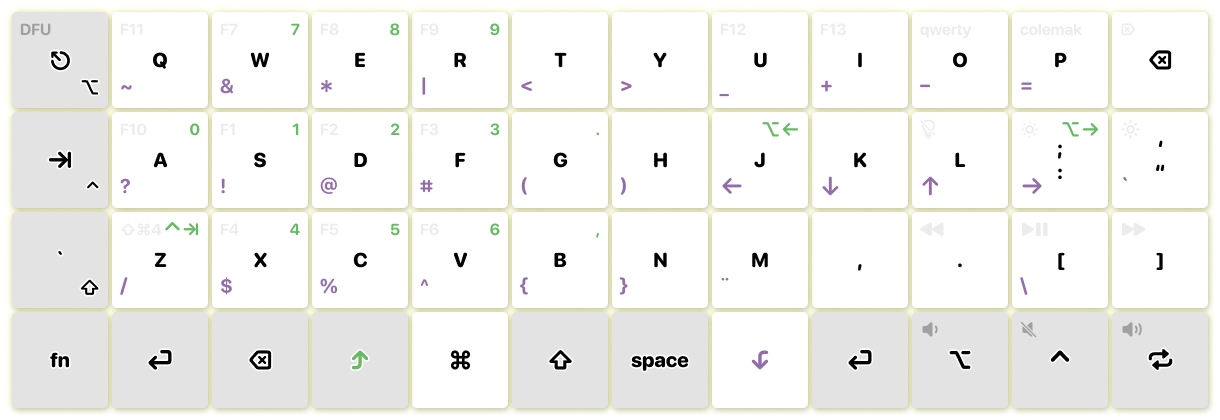
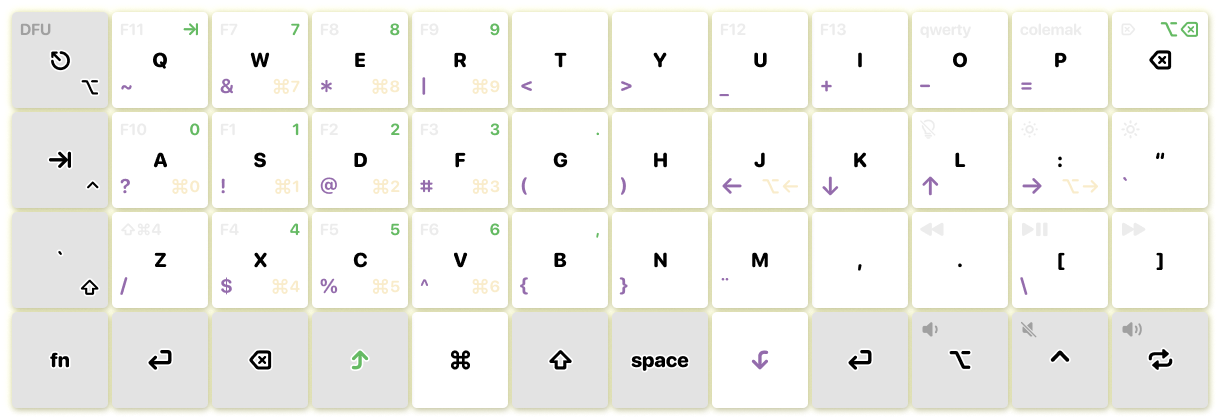
add adjust layer

diff --git a/planck/keymap.c b/planck/keymap.c
@@ -8,6 +8,7 @@ enum planck_layers {
   _COLEMAK_DH,
   _LOWER,
   _RAISE,
+  _ADJUST,
   _FN
 };
 
@@ -21,9 +22,11 @@ enum planck_layers {
 #define FN MO(_FN)
 #define LOWER MO(_LOWER)
 #define RAISE MO(_RAISE)
+#define ADJUST MO(_ADJUST)
 #define LOWER_T TG(_LOWER)
 #define RAISE_T TG(_RAISE)
 #define ENT_RSE LT(_RAISE, KC_ENT)
+#define CMD_RSE LM(_RAISE, MOD_RGUI)
 
 #define T_QWERT DF(_QWERTY)
 #define T_COLEM DF(_COLEMAK_DH)
@@ -85,9 +88,9 @@ const uint16_t PROGMEM keymaps[][MATRIX_ROWS][MATRIX_COLS] = {
  * |-------+-------+-------+-------+-------+-------+-------+-------+-------+-------+-------+-------|
  * | tab/⌃ |   A   |   R   |   S   |   T   |   G   |   M   |   N   |   E   |   I   |   O   |   "   |
  * |-------+-------+-------+-------+-------+-------+-------+-------+-------+-------+-------+-------|
- * |   `/⇧ |   Z   |   X   |   C   |   D   |   V   |   K   |   H   |   ,   |   .   |   ↲   |  lng  |
+ * |   `/⇧ |   Z   |   X   |   C   |   D   |   V   |   K   |   H   |   ,   |   .   |   [   |   ]   |
  * |-------+-------+-------+-------+-------+-------+-------+-------+-------+-------+-------+-------|
- * |  FN   |   ↲   |   ⌫   |   ↗   |   ⌘   |   ⇧   | space |   ↙   |   ↲   |   ⌥   |   ⌃   | lng   |
+ * |  FN   |   ↲   |   ⌫   |   ↗   |   ⌘   |   ⇧   | space |   ↙   |   ↲   |   ⌥   |   ⌃   |  lng  |
  * `-----------------------------------------------------------------------------------------------'
  */
 [_COLEMAK_DH] = LAYOUT_planck_grid(
@@ -112,25 +115,43 @@ const uint16_t PROGMEM keymaps[][MATRIX_ROWS][MATRIX_COLS] = {
     _______, KC_TILD, KC_AMPR, KC_ASTR, KC_PIPE, KC_LT,   KC_GT,   KC_UNDS, KC_PLUS, KC_MINS, KC_EQL,  _______,
     _______, KC_QUES, KC_EXLM, KC_AT,   KC_HASH, KC_LPRN, KC_RPRN, KC_LEFT, KC_DOWN, KC_UP,   KC_RGHT, KC_GRV,
     _______, KC_SLSH, KC_DLR,  KC_PERC, KC_CIRC, KC_LCBR, KC_RCBR, UMLAUT,  KC_LPRN, KC_RPRN, KC_BSLS, XXXXXXX,
-    XXXXXXX, _______, _______, _______, _______, _______, _______, XXXXXXX, _______, _______, _______, _______
+    XXXXXXX, _______, _______, ADJUST,  _______, _______, _______, XXXXXXX, _______, _______, _______, _______
 ),
 
 /* Raise
  * ,-----------------------------------------------------------------------------------------------.
- * | TRNS  |       |   7   |   8   |   9   |       |       |       |       |       |       |       |
+ * | TRNS  |  tab  |   7   |   8   |   9   |       |       |       |       |       |       |       |
  * |-------+-------+-------+-------+-------+-------+-------+-------+-------+-------+-------+-------|
- * | TRNS  |   0   |   1   |   2   |   3   |   .   |       |  ⌥ ←  |       |       |  ⌥ →  |       |
+ * | TRNS  |   0   |   1   |   2   |   3   |   .   |       |       |       |       |       |       |
  * |-------+-------+-------+-------+-------+-------+-------+-------+-------+-------+-------+-------|
- * | TRNS  | ⌃ tab |   4   |   5   |   6   |   ,   |       |       |       |       |       |       |
+ * | TRNS  |       |   4   |   5   |   6   |   ,   |       |       |       |       |       |       |
  * |-------+-------+-------+-------+-------+-------+-------+-------+-------+-------+-------+-------|
  * |       | TRNS  | TRNS  |       | TRNS  | TRNS  | TRNS  | TRNS  | TRNS  | TRNS  | TRNS  | TRNS  |
  * `-----------------------------------------------------------------------------------------------'
   */
 [_RAISE] = LAYOUT_planck_grid(
-    _______, XXXXXXX, KC_7,    KC_8,    KC_9,    XXXXXXX, XXXXXXX, XXXXXXX, XXXXXXX, XXXXXXX, XXXXXXX, _______,
-    _______, KC_0,    KC_1,    KC_2,    KC_3,    KC_DOT,  XXXXXXX, OP_LEFT, XXXXXXX, XXXXXXX, OP_RGHT, XXXXXXX,
+    _______, KC_TAB,  KC_7,    KC_8,    KC_9,    XXXXXXX, XXXXXXX, XXXXXXX, XXXXXXX, XXXXXXX, XXXXXXX, XXXXXXX,
+    _______, KC_0,    KC_1,    KC_2,    KC_3,    KC_DOT,  XXXXXXX, XXXXXXX, XXXXXXX, XXXXXXX, XXXXXXX, XXXXXXX,
     _______, LCTLTAB, KC_4,    KC_5,    KC_6,    KC_COMM, XXXXXXX, XXXXXXX, XXXXXXX, XXXXXXX, XXXXXXX, XXXXXXX,
-    XXXXXXX, _______, _______, XXXXXXX, _______, _______, _______, _______, _______, _______, _______, _______
+    XXXXXXX, _______, _______, XXXXXXX, _______, _______, _______, ADJUST,  _______, _______, _______, _______
+),
+
+/* ADJUST
+ * ,-----------------------------------------------------------------------------------------------.
+ * | TRNS  |       |  ⌘ 7  |  ⌘ 8  |  ⌘ 9  |       |       |       |       |       |       |  ⌥ ⌫  |
+ * |-------+-------+-------+-------+-------+-------+-------+-------+-------+-------+-------+-------|
+ * | TRNS  |  ⌘ 0  |  ⌘ 1  |  ⌘ 2  |  ⌘ 3  |       |       |  ⌥ ←  |       |       |  ⌥ →  |       |
+ * |-------+-------+-------+-------+-------+-------+-------+-------+-------+-------+-------+-------|
+ * | TRNS  |       |  ⌘ 4  |  ⌘ 5  |  ⌘ 6  |       |       |       |       |       |       |       |
+ * |-------+-------+-------+-------+-------+-------+-------+-------+-------+-------+-------+-------|
+ * |       | TRNS  | TRNS  |       | TRNS  | TRNS  | TRNS  |       | TRNS  | TRNS  | TRNS  | TRNS  |
+ * `-----------------------------------------------------------------------------------------------'
+  */
+[_ADJUST] = LAYOUT_planck_grid(
+    _______, XXXXXXX, G(KC_7), G(KC_8), G(KC_9), XXXXXXX, XXXXXXX, XXXXXXX, XXXXXXX, XXXXXXX, XXXXXXX, OP_BSPC,
+    _______, G(KC_0), G(KC_1), G(KC_2), G(KC_3), XXXXXXX, XXXXXXX, OP_LEFT, XXXXXXX, XXXXXXX, OP_RGHT, XXXXXXX,
+    _______, XXXXXXX, G(KC_4), G(KC_5), G(KC_6), XXXXXXX, XXXXXXX, XXXXXXX, XXXXXXX, XXXXXXX, XXXXXXX, XXXXXXX,
+    XXXXXXX, _______, _______, XXXXXXX, _______, _______, _______, XXXXXXX, _______, _______, _______, _______
 ),
 
 /* FN Layer
